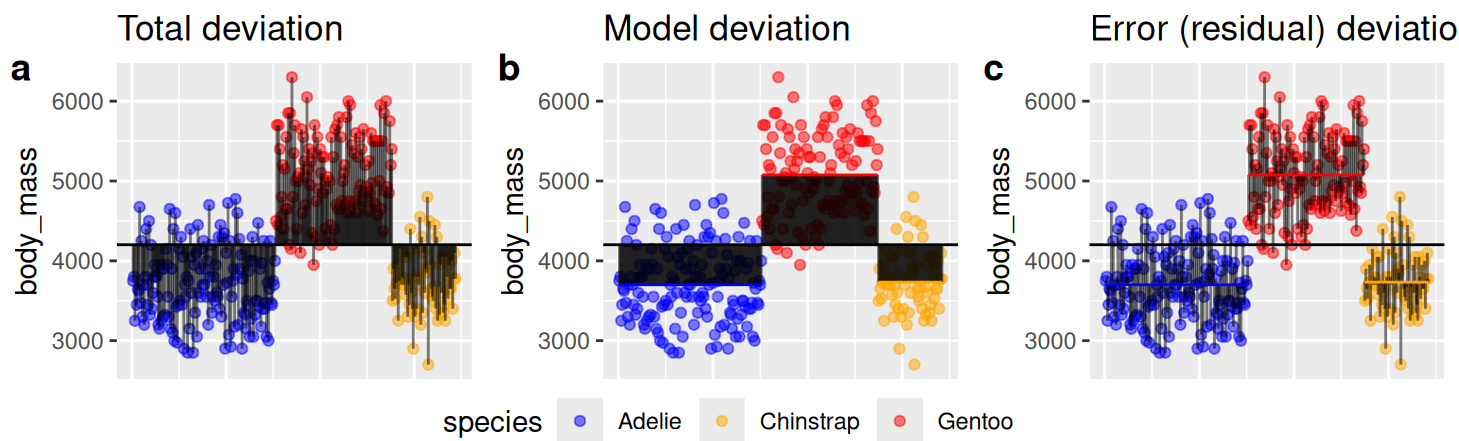
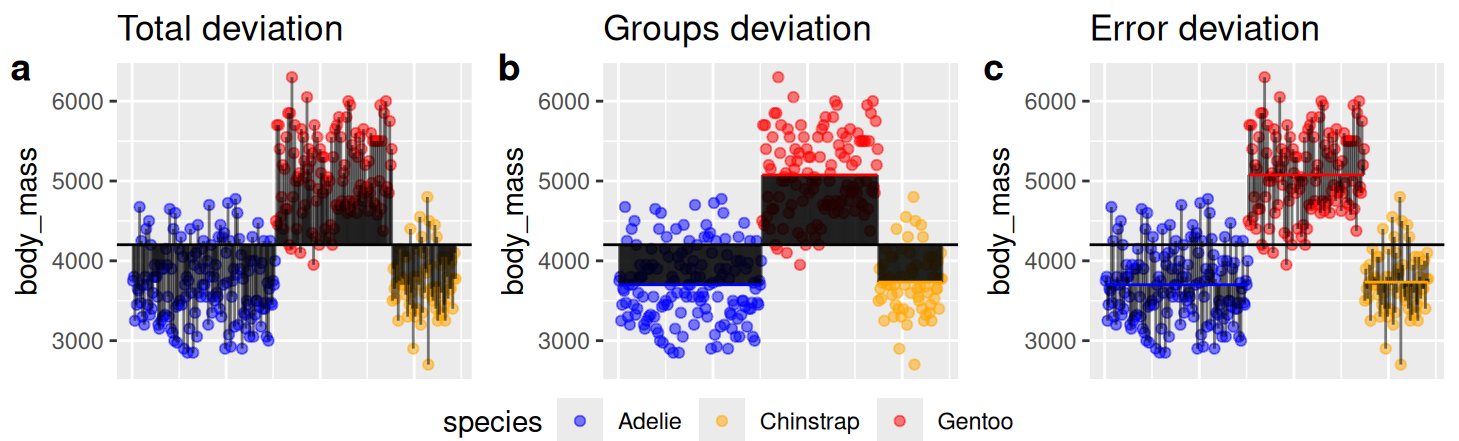
anova!

Changed region(s): [[0.8019, 0.0295, 1.0, 0.1179], [0.401, 0.0295, 0.6169, 0.1179]]

diff --git a/docs/04-lm-categories.html b/docs/04-lm-categories.html
@@ -7,7 +7,7 @@
 <meta name="viewport" content="width=device-width, initial-scale=1.0, user-scalable=yes">
 
 
-<title>5&nbsp; Linear models with categories – EEB 830/831</title>
+<title>5&nbsp; Linear models with categories and ANOVA – EEB 830/831</title>
 <style>
 code{white-space: pre-wrap;}
 span.smallcaps{font-variant: small-caps;}
@@ -145,7 +145,7 @@ window.Quarto = {
       <button type="button" class="quarto-btn-toggle btn" data-bs-toggle="collapse" role="button" data-bs-target=".quarto-sidebar-collapse-item" aria-controls="quarto-sidebar" aria-expanded="false" aria-label="Toggle sidebar navigation" onclick="if (window.quartoToggleHeadroom) { window.quartoToggleHeadroom(); }">
         <i class="bi bi-layout-text-sidebar-reverse"></i>
       </button>
-        <nav class="quarto-page-breadcrumbs" aria-label="breadcrumb"><ol class="breadcrumb"><li class="breadcrumb-item"><a href="./04-lm-categories.html"><span class="chapter-number">5</span>&nbsp; <span class="chapter-title">Linear models with categories</span></a></li></ol></nav>
+        <nav class="quarto-page-breadcrumbs" aria-label="breadcrumb"><ol class="breadcrumb"><li class="breadcrumb-item"><a href="./04-lm-categories.html"><span class="chapter-number">5</span>&nbsp; <span class="chapter-title">Linear models with categories and ANOVA</span></a></li></ol></nav>
         <a class="flex-grow-1" role="navigation" data-bs-toggle="collapse" data-bs-target=".quarto-sidebar-collapse-item" aria-controls="quarto-sidebar" aria-expanded="false" aria-label="Toggle sidebar navigation" onclick="if (window.quartoToggleHeadroom) { window.quartoToggleHeadroom(); }">      
         </a>
       <button type="button" class="btn quarto-search-button" aria-label="Search" onclick="window.quartoOpenSearch();">
@@ -203,7 +203,7 @@ window.Quarto = {
         <li class="sidebar-item">
   <div class="sidebar-item-container"> 
   <a href="./04-lm-categories.html" class="sidebar-item-text sidebar-link active">
- <span class="menu-text"><span class="chapter-number">5</span>&nbsp; <span class="chapter-title">Linear models with categories</span></span></a>
+ <span class="menu-text"><span class="chapter-number">5</span>&nbsp; <span class="chapter-title">Linear models with categories and ANOVA</span></span></a>
   </div>
 </li>
         <li class="sidebar-item">
@@ -257,9 +257,10 @@ window.Quarto = {
   <li><a href="#anova" id="toc-anova" class="nav-link" data-scroll-target="#anova"><span class="header-section-number">5.9</span> ANOVA</a>
   <ul class="collapse">
   <li><a href="#section" id="toc-section" class="nav-link" data-scroll-target="#section"><span class="header-section-number">5.9.1</span> </a></li>
-  <li><a href="#fitting-an-anova-with-in-r" id="toc-fitting-an-anova-with-in-r" class="nav-link" data-scroll-target="#fitting-an-anova-with-in-r"><span class="header-section-number">5.9.2</span> Fitting an ANOVA with in R</a></li>
-  <li><a href="#pairwise-comparisons" id="toc-pairwise-comparisons" class="nav-link" data-scroll-target="#pairwise-comparisons"><span class="header-section-number">5.9.3</span> Pairwise comparisons</a></li>
-  <li><a href="#assumptions-of-an-anova" id="toc-assumptions-of-an-anova" class="nav-link" data-scroll-target="#assumptions-of-an-anova"><span class="header-section-number">5.9.4</span> Assumptions of an ANOVA</a></li>
+  <li><a href="#significance-with-an-f-statistic" id="toc-significance-with-an-f-statistic" class="nav-link" data-scroll-target="#significance-with-an-f-statistic"><span class="header-section-number">5.9.2</span> Significance with an F statistic</a></li>
+  <li><a href="#fitting-an-anova-with-in-r" id="toc-fitting-an-anova-with-in-r" class="nav-link" data-scroll-target="#fitting-an-anova-with-in-r"><span class="header-section-number">5.9.3</span> Fitting an ANOVA with in R</a></li>
+  <li><a href="#pairwise-comparisons" id="toc-pairwise-comparisons" class="nav-link" data-scroll-target="#pairwise-comparisons"><span class="header-section-number">5.9.4</span> Pairwise comparisons</a></li>
+  <li><a href="#assumptions-of-an-anova" id="toc-assumptions-of-an-anova" class="nav-link" data-scroll-target="#assumptions-of-an-anova"><span class="header-section-number">5.9.5</span> Assumptions of an ANOVA</a></li>
   </ul></li>
   </ul>
 </nav>
@@ -269,7 +270,7 @@ window.Quarto = {
 
 <header id="title-block-header" class="quarto-title-block default">
 <div class="quarto-title">
-<h1 class="title"><span class="chapter-number">5</span>&nbsp; <span class="chapter-title">Linear models with categories</span></h1>
+<h1 class="title"><span class="chapter-number">5</span>&nbsp; <span class="chapter-title">Linear models with categories and ANOVA</span></h1>
 </div>
 
 
@@ -459,25 +460,84 @@ F-statistic: 343.6 on 2 and 339 DF,  p-value: &lt; 2.2e-16</code></pre>
 <p>The ANOVA also solves some other problems with multiple category linear models. The model above compares Gentoo and Chinstrap penguins with Adelie penguins but it doesn’t compare Gentoo and Chinstrap with each other. Making that comparison requires rearranging the order of the model.</p>
 <section id="section" class="level3" data-number="5.9.1">
 <h3 data-number="5.9.1" class="anchored" data-anchor-id="section"><span class="header-section-number">5.9.1</span> </h3>
-<p>ANOVAs work by estimating the amount of variation within groups and among groups. The null hypothesis suggests that individuals from different groups will be no more different from each other than individuals from the same group. If this is true, then the variance among groups should equal the variance within groups. ANOVAs test this claim using a F statistic which calculates the ratio of these two values.</p>
-<p><span class="math display">\[ F = \frac{\text{Variance among groups}}{\text{Variance between groups}}\]</span> While different terms are used across texts, here we will call the variance among groups is called the <strong>group mean square</strong> or <span class="math inline">\(\text{MS}_{\text{groups}}\)</span> and it is calculated as <span class="math inline">\(\text{MS}_{\text{groups}} =  \frac{\text{SS}_{\text{groups}}}{df_{\text{groups}}}\)</span>. <span class="math inline">\(\text{SS}_{\text{error}} =  \Sigma_{i} n_{i}(\hat{Y_i} - \bar{Y})^{2}\)</span> where <span class="math inline">\(\hat{Y_i}\)</span> is the mean of the <span class="math inline">\(i^{th}\)</span> group, <span class="math inline">\(n_i\)</span> is the number of individuals in the group, and <span class="math inline">\(\bar{Y}\)</span> is the mean of the entire sample.</p>
-<p>The variance within groups will be called the <strong>error means square</strong> or <span class="math inline">\(\text{MS}_{\text{error}}\)</span> and is calculated as <span class="math inline">\(\text{MS}_{\text{error}}  = \frac{\text{SS}_{\text{error}}}{df_{\text{error}}}\)</span> where <span class="math inline">\(\text{SS}_{\text{error}}\)</span> is the <em>sum of squares error</em> and calculated as <span class="math inline">\(\text{SS}_{\text{error}} = \Sigma_{i}\Sigma{j}(Y_{ij} - \bar{Y_i})^2\)</span> where <span class="math inline">\(Y_{ij}\)</span> is the value for each individual <span class="math inline">\(j\)</span> in group <span class="math inline">\(i\)</span>.</p>
+<p>ANOVAs work by estimating the amount of variation within groups and among groups. The null hypothesis suggests that individuals from different groups will be no more different from each other than individuals from the same group. If this is true, then the variance among groups should equal the variance within groups.</p>
+<p>We need ways to measure this variance. We’ll start by describing the <em>sum of squares groups</em>. <span class="math inline">\(\text{SS}_{\text{group}} =  \Sigma_{i} n_{i}(\hat{Y_i} - \bar{Y})^{2}\)</span> where <span class="math inline">\(\hat{Y_i}\)</span> is the mean of the <span class="math inline">\(i^{th}\)</span> group, <span class="math inline">\(n_i\)</span> is the number of individuals in the group, and <span class="math inline">\(\bar{Y}\)</span> is the mean of the entire sample. The differences between the model mean and the mean of the whole sample are shown in panel b below.</p>
+<p>The corresponding value within groups is<span class="math inline">\(\text{SS}_{\text{error}}\)</span>m the <em>sum of squares error</em>. It is calculated as <span class="math inline">\(\text{SS}_{\text{error}} = \Sigma_{i}\Sigma{j}(Y_{ij} - \bar{Y_i})^2\)</span> where <span class="math inline">\(Y_{ij}\)</span> is the value for each individual <span class="math inline">\(j\)</span> in group <span class="math inline">\(i\)</span>. The differences between each individual and the group means are shown in panel c below.</p>
+<p>Together, the error mean square and the group mean square sum to the total mean square which tells us the deviations between each individual and the group mean (panel c below).</p>
 <div class="cell">
 <div class="cell-output-display">
 <div class="quarto-figure quarto-figure-center">
 <figure class="figure">
 <p><img src="04-lm-categories_files/figure-html/unnamed-chunk-6-1.png" class="img-fluid figure-img" width="729"></p>
-<figcaption>Partitioning deviations in an ANOVA. <strong>A</strong> Shows the difference between each observation, <span class="math inline">\(Y_i\)</span>, and the grand mean, <span class="math inline">\({\overline{Y}}\)</span>. This is the basis for calculating <span class="math inline">\(MS_{total}\)</span>. <strong>B</strong> Shows the difference between each predicted value <span class="math inline">\(\widehat{Y_i}\)</span> and the grand mean, <span class="math inline">\({\overline{Y}}\)</span>. This is the basis for calculating <span class="math inline">\(MS_{model}\)</span>. <strong>C</strong> Shows the difference between each observation, <span class="math inline">\(Y_i\)</span>, and its predicted value <span class="math inline">\(\widehat{Y_i}\)</span>. This is the basis for calculating <span class="math inline">\(MS_{error}\)</span>.</figcaption>
+<figcaption>Partitioning deviations in an ANOVA. <strong>A</strong> Shows the difference between each observation, <span class="math inline">\(Y_i\)</span>, and the grand mean, <span class="math inline">\({\overline{Y}}\)</span>. This is the basis for calculating <span class="math inline">\(SS_{total}\)</span>. <strong>B</strong> Shows the difference between each predicted value <span class="math inline">\(\widehat{Y_i}\)</span> and the grand mean, <span class="math inline">\({\overline{Y}}\)</span>. This is the basis for calculating <span class="math inline">\(SS_{group}\)</span>. <strong>C</strong> Shows the difference between each observation, <span class="math inline">\(Y_i\)</span>, and its predicted value <span class="math inline">\(\widehat{Y_i}\)</span>. This is the basis for calculating <span class="math inline">\(SS_{error}\)</span>.</figcaption>
 </figure>
 </div>
 </div>
 </div>
 </section>
-<section id="fitting-an-anova-with-in-r" class="level3" data-number="5.9.2">
-<h3 data-number="5.9.2" class="anchored" data-anchor-id="fitting-an-anova-with-in-r"><span class="header-section-number">5.9.2</span> Fitting an ANOVA with in R</h3>
+<section id="significance-with-an-f-statistic" class="level3" data-number="5.9.2">
+<h3 data-number="5.9.2" class="anchored" data-anchor-id="significance-with-an-f-statistic"><span class="header-section-number">5.9.2</span> Significance with an F statistic</h3>
+<p>So remember that if there is no difference in means between groups, the variance within groups will be the same as the variance between groups.</p>
+<p>ANOVAs test this claim using a F statistic which calculates the ratio of these two values.</p>
+<p><span class="math display">\[ F = \frac{\text{Variance among groups}}{\text{Variance within groups}}\]</span></p>
+<p>While different terms are used across texts, here we will call the variance among groups is called the <strong>group mean square</strong> or <span class="math inline">\(\text{MS}_{\text{groups}}\)</span> and it is calculated as <span class="math inline">\(\text{MS}_{\text{groups}} =  \frac{\text{SS}_{\text{groups}}}{df_{\text{groups}}}\)</span>. In this case <span class="math inline">\(df_{\text{groups}\)</span> = <span class="math inline">\(n_{\text{groups}} - 1\)</span>.</p>
+<p>The variance within groups will be called the <strong>error mean square</strong> or <span class="math inline">\(\text{MS}_{\text{error}}\)</span> and is calculated as <span class="math inline">\(\text{MS}_{\text{error}}  = \frac{\text{SS}_{\text{error}}}{df_{\text{error}}}\)</span>. Here, <span class="math inline">\(df_{\text{error}}= n- n_{\text{groups}}\)</span>.</p>
+<p><span class="math display">\[ F = \frac{\text{MS}_{\text{model}}}{\text{MS}_{\text{error}}}\]</span></p>
+<p>Using our penguin data we can calculate the sum of squares values</p>
 <div class="cell">
-<div class="sourceCode cell-code" id="cb12"><pre class="sourceCode r code-with-copy"><code class="sourceCode r"><span id="cb12-1"><a href="#cb12-1" aria-hidden="true" tabindex="-1"></a><span class="co">#install.packages('car')</span></span>
-<span id="cb12-2"><a href="#cb12-2" aria-hidden="true" tabindex="-1"></a><span class="fu">library</span>(car)</span></code><button title="Copy to Clipboard" class="code-copy-button"><i class="bi"></i></button></pre></div>
+<div class="sourceCode cell-code" id="cb12"><pre class="sourceCode r code-with-copy"><code class="sourceCode r"><span id="cb12-1"><a href="#cb12-1" aria-hidden="true" tabindex="-1"></a>penguins2 <span class="ot">&lt;-</span> <span class="fu">filter</span>(penguins, <span class="sc">!</span><span class="fu">is.na</span>(body_mass)) <span class="co">#remove nas for body mass</span></span>
+<span id="cb12-2"><a href="#cb12-2" aria-hidden="true" tabindex="-1"></a></span>
+<span id="cb12-3"><a href="#cb12-3" aria-hidden="true" tabindex="-1"></a>sstable <span class="ot">&lt;-</span> <span class="fu">augment</span>(model2) <span class="sc">|&gt;</span> <span class="do">## give us the means of each group in the .fitted row</span></span>
+<span id="cb12-4"><a href="#cb12-4" aria-hidden="true" tabindex="-1"></a>     <span class="fu">mutate</span>(<span class="at">sample_mean  =</span> <span class="fu">mean</span>(body_mass)) <span class="sc">|&gt;</span> <span class="co"># calculate the total mean</span></span>
+<span id="cb12-5"><a href="#cb12-5" aria-hidden="true" tabindex="-1"></a>            <span class="fu">summarise</span>(<span class="at">n_groups =</span> <span class="fu">n_distinct</span>(species),</span>
+<span id="cb12-6"><a href="#cb12-6" aria-hidden="true" tabindex="-1"></a>                      <span class="at">n=</span><span class="fu">n</span>(),</span>
+<span id="cb12-7"><a href="#cb12-7" aria-hidden="true" tabindex="-1"></a>        <span class="at">SS_total =</span> <span class="fu">sum</span>((body_mass<span class="sc">-</span>sample_mean)<span class="sc">^</span><span class="dv">2</span>), <span class="co">#total ss from body mass minus sample mean</span></span>
+<span id="cb12-8"><a href="#cb12-8" aria-hidden="true" tabindex="-1"></a>        <span class="at">SS_groups=</span><span class="fu">sum</span>((.fitted<span class="sc">-</span>sample_mean)<span class="sc">^</span><span class="dv">2</span>), <span class="co">#model ss from group means minus total mean</span></span>
+<span id="cb12-9"><a href="#cb12-9" aria-hidden="true" tabindex="-1"></a>        <span class="at">SS_error =</span> <span class="fu">sum</span>((body_mass<span class="sc">-</span>.fitted)<span class="sc">^</span><span class="dv">2</span>), <span class="co"># error ss from body mass minus the group means</span></span>
+<span id="cb12-10"><a href="#cb12-10" aria-hidden="true" tabindex="-1"></a>)</span>
+<span id="cb12-11"><a href="#cb12-11" aria-hidden="true" tabindex="-1"></a> </span>
+<span id="cb12-12"><a href="#cb12-12" aria-hidden="true" tabindex="-1"></a>sstable</span></code><button title="Copy to Clipboard" class="code-copy-button"><i class="bi"></i></button></pre></div>
+<div class="cell-output cell-output-stdout">
+<pre><code># A tibble: 1 × 5
+  n_groups     n   SS_total  SS_groups  SS_error
+     &lt;int&gt; &lt;int&gt;      &lt;dbl&gt;      &lt;dbl&gt;     &lt;dbl&gt;
+1        3   342 219307697. 146864214. 72443483.</code></pre>
+</div>
+</div>
+<p>Next we can calculate the mean square values</p>
+<div class="cell">
+<div class="sourceCode cell-code" id="cb14"><pre class="sourceCode r code-with-copy"><code class="sourceCode r"><span id="cb14-1"><a href="#cb14-1" aria-hidden="true" tabindex="-1"></a>ftable <span class="ot">&lt;-</span> sstable <span class="sc">|&gt;</span></span>
+<span id="cb14-2"><a href="#cb14-2" aria-hidden="true" tabindex="-1"></a>  <span class="fu">mutate</span>(</span>
+<span id="cb14-3"><a href="#cb14-3" aria-hidden="true" tabindex="-1"></a>    <span class="at">df_groups =</span> n_groups<span class="dv">-1</span>,</span>
+<span id="cb14-4"><a href="#cb14-4" aria-hidden="true" tabindex="-1"></a>    <span class="at">df_error =</span> n <span class="sc">-</span> n_groups,</span>
+<span id="cb14-5"><a href="#cb14-5" aria-hidden="true" tabindex="-1"></a>    <span class="at">ms_groups =</span> SS_groups<span class="sc">/</span>df_groups,</span>
+<span id="cb14-6"><a href="#cb14-6" aria-hidden="true" tabindex="-1"></a>    <span class="at">ms_error =</span> SS_error<span class="sc">/</span>df_error,</span>
+<span id="cb14-7"><a href="#cb14-7" aria-hidden="true" tabindex="-1"></a>    <span class="at">F_value =</span> ms_groups<span class="sc">/</span>ms_error</span>
+<span id="cb14-8"><a href="#cb14-8" aria-hidden="true" tabindex="-1"></a>  )</span>
+<span id="cb14-9"><a href="#cb14-9" aria-hidden="true" tabindex="-1"></a></span>
+<span id="cb14-10"><a href="#cb14-10" aria-hidden="true" tabindex="-1"></a>ftable</span></code><button title="Copy to Clipboard" class="code-copy-button"><i class="bi"></i></button></pre></div>
+<div class="cell-output cell-output-stdout">
+<pre><code># A tibble: 1 × 10
+  n_groups     n   SS_total  SS_groups  SS_error df_groups df_error ms_groups
+     &lt;int&gt; &lt;int&gt;      &lt;dbl&gt;      &lt;dbl&gt;     &lt;dbl&gt;     &lt;dbl&gt;    &lt;int&gt;     &lt;dbl&gt;
+1        3   342 219307697. 146864214. 72443483.         2      339 73432107.
+# ℹ 2 more variables: ms_error &lt;dbl&gt;, F_value &lt;dbl&gt;</code></pre>
+</div>
+</div>
+<p>We can then use an F-test to test the hypothesis that F is different from 1.</p>
+<div class="cell">
+<div class="sourceCode cell-code" id="cb16"><pre class="sourceCode r code-with-copy"><code class="sourceCode r"><span id="cb16-1"><a href="#cb16-1" aria-hidden="true" tabindex="-1"></a><span class="fu">pf</span>(<span class="at">q =</span> ftable<span class="sc">$</span>F_value, <span class="at">df1 =</span> ftable<span class="sc">$</span>df_groups, <span class="at">df2 =</span> ftable<span class="sc">$</span>df_error, <span class="at">lower.tail =</span> <span class="cn">FALSE</span>)</span></code><button title="Copy to Clipboard" class="code-copy-button"><i class="bi"></i></button></pre></div>
+<div class="cell-output cell-output-stdout">
+<pre><code>[1] 2.892368e-82</code></pre>
+</div>
+</div>
+</section>
+<section id="fitting-an-anova-with-in-r" class="level3" data-number="5.9.3">
+<h3 data-number="5.9.3" class="anchored" data-anchor-id="fitting-an-anova-with-in-r"><span class="header-section-number">5.9.3</span> Fitting an ANOVA with in R</h3>
+<p>Instead of calculating everything by hand, we can use R to fit an ANOVA with the following code:</p>
+<div class="cell">
+<div class="sourceCode cell-code" id="cb18"><pre class="sourceCode r code-with-copy"><code class="sourceCode r"><span id="cb18-1"><a href="#cb18-1" aria-hidden="true" tabindex="-1"></a><span class="co">#install.packages('car')</span></span>
+<span id="cb18-2"><a href="#cb18-2" aria-hidden="true" tabindex="-1"></a><span class="fu">library</span>(car)</span></code><button title="Copy to Clipboard" class="code-copy-button"><i class="bi"></i></button></pre></div>
 <div class="cell-output cell-output-stderr">
 <pre><code>Loading required package: carData</code></pre>
 </div>
@@ -495,29 +555,30 @@ Attaching package: 'car'</code></pre>
 
     some</code></pre>
 </div>
-<div class="sourceCode cell-code" id="cb17"><pre class="sourceCode r code-with-copy"><code class="sourceCode r"><span id="cb17-1"><a href="#cb17-1" aria-hidden="true" tabindex="-1"></a><span class="fu">Anova</span>(model1)</span></code><button title="Copy to Clipboard" class="code-copy-button"><i class="bi"></i></button></pre></div>
+<div class="sourceCode cell-code" id="cb23"><pre class="sourceCode r code-with-copy"><code class="sourceCode r"><span id="cb23-1"><a href="#cb23-1" aria-hidden="true" tabindex="-1"></a><span class="fu">Anova</span>(model2)</span></code><button title="Copy to Clipboard" class="code-copy-button"><i class="bi"></i></button></pre></div>
 <div class="cell-output cell-output-stdout">
 <pre><code>Anova Table (Type II tests)
 
 Response: body_mass
              Sum Sq  Df F value    Pr(&gt;F)    
-species   128221393   1   557.6 &lt; 2.2e-16 ***
-Residuals  62546682 272                      
+species   146864214   2  343.63 &lt; 2.2e-16 ***
+Residuals  72443483 339                      
 ---
 Signif. codes:  0 '***' 0.001 '**' 0.01 '*' 0.05 '.' 0.1 ' ' 1</code></pre>
 </div>
 </div>
+<p>Note that our calculations match the Anova function!</p>
 </section>
-<section id="pairwise-comparisons" class="level3" data-number="5.9.3">
-<h3 data-number="5.9.3" class="anchored" data-anchor-id="pairwise-comparisons"><span class="header-section-number">5.9.3</span> Pairwise comparisons</h3>
+<section id="pairwise-comparisons" class="level3" data-number="5.9.4">
+<h3 data-number="5.9.4" class="anchored" data-anchor-id="pairwise-comparisons"><span class="header-section-number">5.9.4</span> Pairwise comparisons</h3>
 <p>Now, to determine if there is a difference between any pair of categories, like Chinstrap and Gentoo, we can do a post-hoc pairwise comparison. <strong>Post-hoc</strong> tells us that we are doing these tests after we reject the null hypothesis that all of these categories have the same distribution.</p>
 <p>If we want to look at all possible comparisons, this is called doing <strong>unplanned comparisons</strong></p>
 <div class="cell">
-<div class="sourceCode cell-code" id="cb19"><pre class="sourceCode r code-with-copy"><code class="sourceCode r"><span id="cb19-1"><a href="#cb19-1" aria-hidden="true" tabindex="-1"></a><span class="co">#install.packages("emmeans")</span></span>
-<span id="cb19-2"><a href="#cb19-2" aria-hidden="true" tabindex="-1"></a><span class="fu">library</span>(emmeans)</span>
-<span id="cb19-3"><a href="#cb19-3" aria-hidden="true" tabindex="-1"></a></span>
-<span id="cb19-4"><a href="#cb19-4" aria-hidden="true" tabindex="-1"></a>out.emmeans <span class="ot">&lt;-</span> <span class="fu">emmeans</span>(model2, <span class="at">specs =</span> <span class="st">"species"</span>)</span>
-<span id="cb19-5"><a href="#cb19-5" aria-hidden="true" tabindex="-1"></a><span class="fu">pairs</span>(out.emmeans)</span></code><button title="Copy to Clipboard" class="code-copy-button"><i class="bi"></i></button></pre></div>
+<div class="sourceCode cell-code" id="cb25"><pre class="sourceCode r code-with-copy"><code class="sourceCode r"><span id="cb25-1"><a href="#cb25-1" aria-hidden="true" tabindex="-1"></a><span class="co">#install.packages("emmeans")</span></span>
+<span id="cb25-2"><a href="#cb25-2" aria-hidden="true" tabindex="-1"></a><span class="fu">library</span>(emmeans)</span>
+<span id="cb25-3"><a href="#cb25-3" aria-hidden="true" tabindex="-1"></a></span>
+<span id="cb25-4"><a href="#cb25-4" aria-hidden="true" tabindex="-1"></a>out.emmeans <span class="ot">&lt;-</span> <span class="fu">emmeans</span>(model2, <span class="at">specs =</span> <span class="st">"species"</span>)</span>
+<span id="cb25-5"><a href="#cb25-5" aria-hidden="true" tabindex="-1"></a><span class="fu">pairs</span>(out.emmeans)</span></code><button title="Copy to Clipboard" class="code-copy-button"><i class="bi"></i></button></pre></div>
 <div class="cell-output cell-output-stdout">
 <pre><code> contrast           estimate   SE  df t.ratio p.value
  Adelie - Chinstrap    -32.4 67.5 339  -0.480  0.8807
@@ -528,8 +589,8 @@ P value adjustment: tukey method for comparing a family of 3 estimates </code></
 </div>
 </div>
 </section>
-<section id="assumptions-of-an-anova" class="level3" data-number="5.9.4">
-<h3 data-number="5.9.4" class="anchored" data-anchor-id="assumptions-of-an-anova"><span class="header-section-number">5.9.4</span> Assumptions of an ANOVA</h3>
+<section id="assumptions-of-an-anova" class="level3" data-number="5.9.5">
+<h3 data-number="5.9.5" class="anchored" data-anchor-id="assumptions-of-an-anova"><span class="header-section-number">5.9.5</span> Assumptions of an ANOVA</h3>
 
 
 </section>

diff --git a/docs/05-lm-continuousvars.html b/docs/05-lm-continuousvars.html
@@ -203,7 +203,7 @@ window.Quarto = {
         <li class="sidebar-item">
   <div class="sidebar-item-container"> 
   <a href="./04-lm-categories.html" class="sidebar-item-text sidebar-link">
- <span class="menu-text"><span class="chapter-number">5</span>&nbsp; <span class="chapter-title">Linear models with categories</span></span></a>
+ <span class="menu-text"><span class="chapter-number">5</span>&nbsp; <span class="chapter-title">Linear models with categories and ANOVA</span></span></a>
   </div>
 </li>
         <li class="sidebar-item">
@@ -864,8 +864,8 @@ window.document.addEventListener("DOMContentLoaded", function (event) {
 </script>
 <nav class="page-navigation">
   <div class="nav-page nav-page-previous">
-      <a href="./04-lm-categories.html" class="pagination-link" aria-label="Linear models with categories">
-        <i class="bi bi-arrow-left-short"></i> <span class="nav-page-text"><span class="chapter-number">5</span>&nbsp; <span class="chapter-title">Linear models with categories</span></span>
+      <a href="./04-lm-categories.html" class="pagination-link" aria-label="Linear models with categories and ANOVA">
+        <i class="bi bi-arrow-left-short"></i> <span class="nav-page-text"><span class="chapter-number">5</span>&nbsp; <span class="chapter-title">Linear models with categories and ANOVA</span></span>
       </a>          
   </div>
   <div class="nav-page nav-page-next">

diff --git a/docs/03-linearModels1.html b/docs/03-linearModels1.html
@@ -213,7 +213,7 @@ window.Quarto = {
         <li class="sidebar-item">
   <div class="sidebar-item-container"> 
   <a href="./04-lm-categories.html" class="sidebar-item-text sidebar-link">
- <span class="menu-text"><span class="chapter-number">5</span>&nbsp; <span class="chapter-title">Linear models with categories</span></span></a>
+ <span class="menu-text"><span class="chapter-number">5</span>&nbsp; <span class="chapter-title">Linear models with categories and ANOVA</span></span></a>
   </div>
 </li>
         <li class="sidebar-item">
@@ -1056,8 +1056,8 @@ window.document.addEventListener("DOMContentLoaded", function (event) {
       </a>          
   </div>
   <div class="nav-page nav-page-next">
-      <a href="./04-lm-categories.html" class="pagination-link" aria-label="Linear models with categories">
-        <span class="nav-page-text"><span class="chapter-number">5</span>&nbsp; <span class="chapter-title">Linear models with categories</span></span> <i class="bi bi-arrow-right-short"></i>
+      <a href="./04-lm-categories.html" class="pagination-link" aria-label="Linear models with categories and ANOVA">
+        <span class="nav-page-text"><span class="chapter-number">5</span>&nbsp; <span class="chapter-title">Linear models with categories and ANOVA</span></span> <i class="bi bi-arrow-right-short"></i>
       </a>
   </div>
 </nav>

diff --git a/docs/01-intro.html b/docs/01-intro.html
@@ -140,7 +140,7 @@ ul.task-list li input[type="checkbox"] {
         <li class="sidebar-item">
   <div class="sidebar-item-container"> 
   <a href="./04-lm-categories.html" class="sidebar-item-text sidebar-link">
- <span class="menu-text"><span class="chapter-number">5</span>&nbsp; <span class="chapter-title">Linear models with categories</span></span></a>
+ <span class="menu-text"><span class="chapter-number">5</span>&nbsp; <span class="chapter-title">Linear models with categories and ANOVA</span></span></a>
   </div>
 </li>
         <li class="sidebar-item">

diff --git a/docs/02.5-pvalues.html b/docs/02.5-pvalues.html
@@ -140,7 +140,7 @@ ul.task-list li input[type="checkbox"] {
         <li class="sidebar-item">
   <div class="sidebar-item-container"> 
   <a href="./04-lm-categories.html" class="sidebar-item-text sidebar-link">
- <span class="menu-text"><span class="chapter-number">5</span>&nbsp; <span class="chapter-title">Linear models with categories</span></span></a>
+ <span class="menu-text"><span class="chapter-number">5</span>&nbsp; <span class="chapter-title">Linear models with categories and ANOVA</span></span></a>
   </div>
 </li>
         <li class="sidebar-item">

diff --git a/docs/07-lm-interactions.html b/docs/07-lm-interactions.html
@@ -140,7 +140,7 @@ ul.task-list li input[type="checkbox"] {
         <li class="sidebar-item">
   <div class="sidebar-item-container"> 
   <a href="./04-lm-categories.html" class="sidebar-item-text sidebar-link">
- <span class="menu-text"><span class="chapter-number">5</span>&nbsp; <span class="chapter-title">Linear models with categories</span></span></a>
+ <span class="menu-text"><span class="chapter-number">5</span>&nbsp; <span class="chapter-title">Linear models with categories and ANOVA</span></span></a>
   </div>
 </li>
         <li class="sidebar-item">

diff --git a/docs/08-multipletesting.html b/docs/08-multipletesting.html
@@ -140,7 +140,7 @@ ul.task-list li input[type="checkbox"] {
         <li class="sidebar-item">
   <div class="sidebar-item-container"> 
   <a href="./04-lm-categories.html" class="sidebar-item-text sidebar-link">
- <span class="menu-text"><span class="chapter-number">5</span>&nbsp; <span class="chapter-title">Linear models with categories</span></span></a>
+ <span class="menu-text"><span class="chapter-number">5</span>&nbsp; <span class="chapter-title">Linear models with categories and ANOVA</span></span></a>
   </div>
 </li>
         <li class="sidebar-item">

diff --git a/docs/09-GWAS.html b/docs/09-GWAS.html
@@ -139,7 +139,7 @@ ul.task-list li input[type="checkbox"] {
         <li class="sidebar-item">
   <div class="sidebar-item-container"> 
   <a href="./04-lm-categories.html" class="sidebar-item-text sidebar-link">
- <span class="menu-text"><span class="chapter-number">5</span>&nbsp; <span class="chapter-title">Linear models with categories</span></span></a>
+ <span class="menu-text"><span class="chapter-number">5</span>&nbsp; <span class="chapter-title">Linear models with categories and ANOVA</span></span></a>
   </div>
 </li>
         <li class="sidebar-item">

diff --git a/docs/index.html b/docs/index.html
@@ -141,7 +141,7 @@ ul.task-list li input[type="checkbox"] {
         <li class="sidebar-item">
   <div class="sidebar-item-container"> 
   <a href="./04-lm-categories.html" class="sidebar-item-text sidebar-link">
- <span class="menu-text"><span class="chapter-number">5</span>&nbsp; <span class="chapter-title">Linear models with categories</span></span></a>
+ <span class="menu-text"><span class="chapter-number">5</span>&nbsp; <span class="chapter-title">Linear models with categories and ANOVA</span></span></a>
   </div>
 </li>
         <li class="sidebar-item">

diff --git a/docs/02-likelihood.html b/docs/02-likelihood.html
@@ -169,7 +169,7 @@ window.Quarto = {
         <li class="sidebar-item">
   <div class="sidebar-item-container"> 
   <a href="./04-lm-categories.html" class="sidebar-item-text sidebar-link">
- <span class="menu-text"><span class="chapter-number">5</span>&nbsp; <span class="chapter-title">Linear models with categories</span></span></a>
+ <span class="menu-text"><span class="chapter-number">5</span>&nbsp; <span class="chapter-title">Linear models with categories and ANOVA</span></span></a>
   </div>
 </li>
         <li class="sidebar-item">

diff --git a/docs/06-lm-multiplepredictors.html b/docs/06-lm-multiplepredictors.html
@@ -203,7 +203,7 @@ window.Quarto = {
         <li class="sidebar-item">
   <div class="sidebar-item-container"> 
   <a href="./04-lm-categories.html" class="sidebar-item-text sidebar-link">
- <span class="menu-text"><span class="chapter-number">5</span>&nbsp; <span class="chapter-title">Linear models with categories</span></span></a>
+ <span class="menu-text"><span class="chapter-number">5</span>&nbsp; <span class="chapter-title">Linear models with categories and ANOVA</span></span></a>
   </div>
 </li>
         <li class="sidebar-item">
